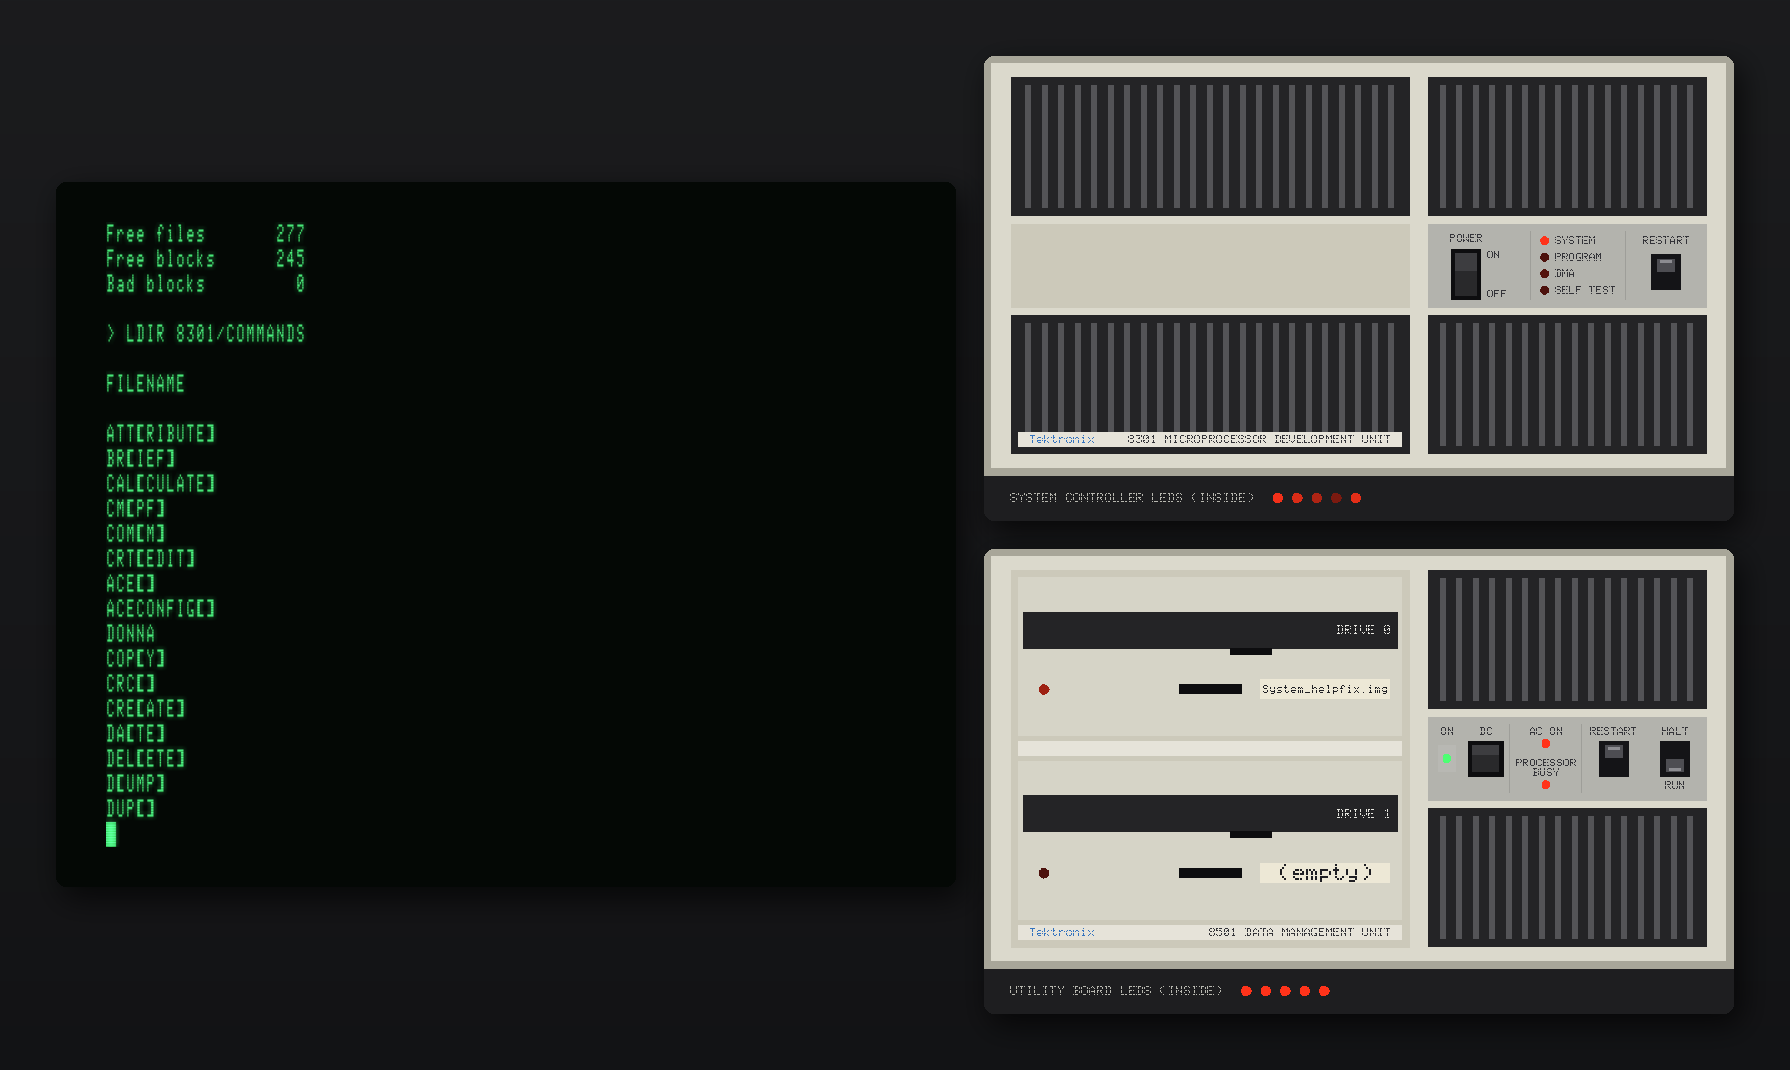
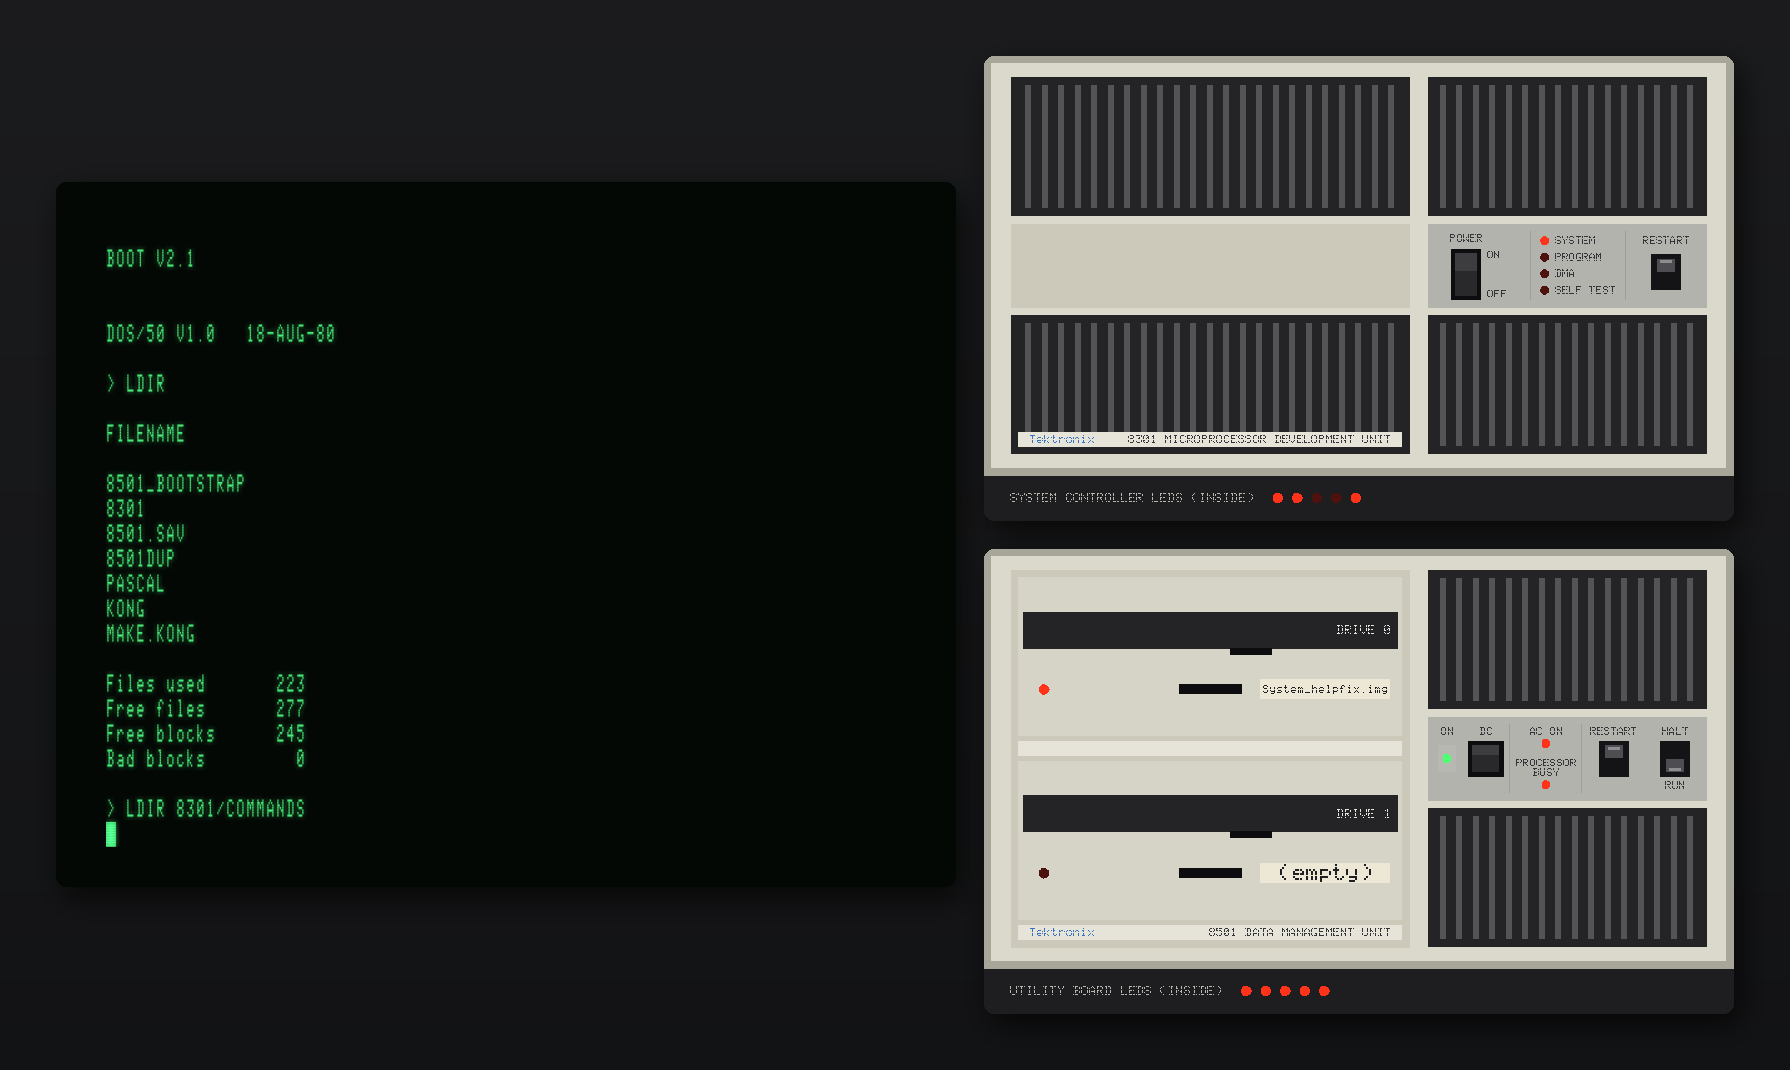
Tutorials with progress screenshots; deterministic GUI captures
- docs/TUTORIALS.md shows each step: power-up self-test, the prompt and LDIR
  in the graphical lab; EDIT, ASM/LINK and the breakpoint session; FORMAT
  probing the blank disc, formatting, copying and done, with drive 1's lamp.
  Rendered by tools/make_tutorial_shots.sh (GUI captures composed by the
  new tools/compose_gui.py, terminal screens by render_screens.py).
- tek8550-gui batch runs (-cycles) are deterministic: every frame is 1/60 s
  of machine time, blink follows machine time, no vsync, and drawing only
  happens when a capture is due. Two runs give byte-identical pictures.
- tek8550_system::disc(N) tracks the image in each drive however it was
  inserted (command line, -mount, monitor, GUI), so the GUI's drive
  captions follow scripted mounts too.
- FORMAT's question comes after ~20 s of probing a blank disc; the
  tutorial says so, and the script answers after it.

diff --git a/emu/src/frontend/sdl/main_gui.cpp b/emu/src/frontend/sdl/main_gui.cpp
@@ -167,7 +167,7 @@ int main(int argc, char **argv)
 	if (!SDL_CreateWindowAndRenderer("Tektronix CT8500 \xe2\x80\x94 8550 MDL", int(LW * (scale > 0 ? scale : 1.25)), int(LH * (scale > 0 ? scale : 1.25)),
 		SDL_WINDOW_RESIZABLE | SDL_WINDOW_HIGH_PIXEL_DENSITY, &win, &ren)) { fprintf(stderr, "SDL: %s\n", SDL_GetError()); return 1; }
 	SDL_SetRenderLogicalPresentation(ren, LW, LH, SDL_LOGICAL_PRESENTATION_LETTERBOX);
-	SDL_SetRenderVSync(ren, 1);
+	SDL_SetRenderVSync(ren, opt.max_cycles >= 0 ? 0 : 1);       // batch runs never wait for the display
 	SDL_Texture *tex = SDL_CreateTexture(ren, SDL_PIXELFORMAT_ARGB8888, SDL_TEXTUREACCESS_STREAMING, TW, TH);
 	terminal_view view; view.crt = style != "sharp";
 	SDL_SetTextureScaleMode(tex, view.crt ? SDL_SCALEMODE_LINEAR : SDL_SCALEMODE_NEAREST);
@@ -176,8 +176,6 @@ int main(int argc, char **argv)
 
 	// front panels, to the right of the terminal
 	std::vector<panel> panels;
-	std::string disc[4];
-	for (int d = 0; d < 4; d++) disc[d] = opt.disks[d].empty() ? "" : base_name(opt.disks[d]);
 	if (panels_on) {
 		int tx = 0, ty = 0, tw = 0, th = 0;
 		SDL_GetWindowPosition(win, &tx, &ty); SDL_GetWindowSize(win, &tw, &th);
@@ -237,7 +235,8 @@ int main(int argc, char **argv)
 	std::deque<uint8_t> paste;                   // pasted text, typed at the line rate
 	double next_paste = 0;
 	const double char_time = 10.0 / 9600;        // the terminal port's 9600 baud
-	bool turbo = opt.max_cycles >= 0, fullscreen = false, quit = false, redraw = true, blink_on = true;
+	const bool batch = opt.max_cycles >= 0;
+	bool turbo = batch, fullscreen = false, quit = false, redraw = true, blink_on = true;
 	Uint64 wall0 = SDL_GetTicksNS(); double emu0 = sys.now();
 	auto resync = [&]() { wall0 = SDL_GetTicksNS(); emu0 = sys.now(); };
 	auto update_title = [&]() {
@@ -263,8 +262,7 @@ int main(int argc, char **argv)
 				p->pressed = it;
 				if (it->input.compare(0, 5, "drive") == 0 && it->input.find(":eject") != std::string::npos) {
 					int d = it->input[5] - '0'; std::string er;
-					if (!disc[d].empty() && !sys.eject(d, er)) fprintf(stderr, "[drive %d: %s]\n", d, er.c_str());
-					disc[d].clear();
+					if (!sys.disc(d).empty() && !sys.eject(d, er)) fprintf(stderr, "[drive %d: %s]\n", d, er.c_str());
 				} else sys.input(it->input, 1);
 				break;
 			}
@@ -276,8 +274,7 @@ int main(int argc, char **argv)
 				const lay::item *it = lay::hit(*p->v, e.drop.x, e.drop.y, [](const lay::item &i) { return i.drive >= 0; });
 				if (!it) break;
 				std::string er;
-				if (sys.mount(it->drive, path, er)) disc[it->drive] = base_name(path);
-				else fprintf(stderr, "[drive %d: %s]\n", it->drive, er.c_str());
+				if (!sys.mount(it->drive, path, er)) fprintf(stderr, "[drive %d: %s]\n", it->drive, er.c_str());
 				break;
 			}
 			case SDL_EVENT_TEXT_INPUT:
@@ -349,11 +346,13 @@ int main(int argc, char **argv)
 		}
 
 		// run the machine: to real time, or flat out for ~14 ms per frame in turbo
+		// batch runs (-cycles) are deterministic: every frame is 1/60 s of machine time, so
+		// captures (-shot) come out the same on every run
 		Uint64 frame0 = SDL_GetTicksNS();
-		double target = emu0 + double(frame0 - wall0) / 1e9;
+		double target = batch ? sys.now() + 1.0 / 60 : emu0 + double(frame0 - wall0) / 1e9;
 		while (!sys.finished()) {
 			Uint64 now = SDL_GetTicksNS();
-			if (turbo ? now - frame0 > 14'000'000 : (sys.now() >= target || now - frame0 > 30'000'000)) break;
+			if (batch ? sys.now() >= target : turbo ? now - frame0 > 14'000'000 : (sys.now() >= target || now - frame0 > 30'000'000)) break;
 			if (!paste.empty() && sys.now() >= next_paste) {
 				uint8_t c = paste.front(); paste.pop_front();
 				ct.type(c);
@@ -373,8 +372,16 @@ int main(int argc, char **argv)
 		}
 		if (turbo || sys.now() < target - 0.25) resync();      // never try to catch up a backlog
 		if (ct.take_bell()) bell.ring();
+		// batch runs draw only for a capture (and ~30 times a second of wall time if a display shows them)
+		if (batch) {
+			static Uint64 last_draw = 0;
+			bool shot_due = false;
+			for (auto &sh : shots) if (!sh.file.empty() && sys.now() >= sh.at) shot_due = true;
+			if (!shot_due && SDL_GetTicksNS() - last_draw < 33'000'000) continue;
+			last_draw = SDL_GetTicksNS();
+		}
 
-		bool b = (SDL_GetTicksNS() / 500'000'000) % 2 == 0;    // blinking attribute, 1 Hz
+		bool b = batch ? int(sys.now() * 2) % 2 == 0 : (SDL_GetTicksNS() / 500'000'000) % 2 == 0;   // blinking attribute, 1 Hz
 		if (b != blink_on) { blink_on = b; redraw = true; }
 		if (sys.terminal_dirty) { sys.terminal_dirty = false; redraw = true; }
 		if (redraw) {
@@ -392,7 +399,7 @@ int main(int argc, char **argv)
 			for (panel &p : panels) if (p.pressed == &it) return 1.f;
 			return 0.f;
 		};
-		auto caption = [&](const lay::item &it) -> std::string { return it.drive >= 0 ? (disc[it.drive].empty() ? "(empty)" : disc[it.drive]) : ""; };
+		auto caption = [&](const lay::item &it) -> std::string { return it.drive >= 0 ? (sys.disc(it.drive).empty() ? "(empty)" : base_name(sys.disc(it.drive))) : ""; };
 		for (panel &p : panels) {
 			if (!p.shown || !p.ren) continue;
 			SDL_SetRenderDrawColor(p.ren, 30, 30, 32, 255);

diff --git a/tools/compose_gui.py b/tools/compose_gui.py
@@ -1,0 +1,38 @@
+#!/usr/bin/env python3
+"""Compose tek8550-gui window captures (-shot X.bmp writes X.bmp, X_8301.bmp, X_8501.bmp)
+into one picture on a dark backdrop with soft shadows.
+usage: compose_gui.py SHOT.bmp OUT.png [--width W]   (W: scale the result to this width)"""
+import sys, os
+from PIL import Image, ImageFilter, ImageDraw
+
+def compose(shot, out, width=None):
+    base = os.path.splitext(shot)[0]
+    term = Image.open(shot).convert('RGB')
+    panels = [Image.open(base + '_' + t + '.bmp').convert('RGB') for t in ('8301', '8501') if os.path.exists(base + '_' + t + '.bmp')]
+    pad, gap = 56, 28
+    stack_h = sum(p.height for p in panels) + gap * max(len(panels) - 1, 0)
+    H = max(term.height, stack_h) + 2 * pad
+    W = pad + term.width + (gap + max(p.width for p in panels) if panels else 0) + pad
+    bg = Image.new('RGB', (W, H), (22, 23, 26))
+    g = Image.new('L', (1, H)); g.putdata([int(36 - 24 * y / H) for y in range(H)])
+    bg.paste(Image.merge('RGB', (g, g, g)).resize((W, H)), (0, 0), Image.new('L', (W, H), 90))
+    def place(img, x, y):
+        sh = Image.new('L', (W, H), 0)
+        ImageDraw.Draw(sh).rounded_rectangle([x + 6, y + 10, x + img.width + 6, y + img.height + 10], 12, fill=170)
+        bg.paste((0, 0, 0), (0, 0), sh.filter(ImageFilter.GaussianBlur(14)))
+        m = Image.new('L', img.size, 0); ImageDraw.Draw(m).rounded_rectangle([0, 0, img.width - 1, img.height - 1], 10, fill=255)
+        bg.paste(img, (x, y), m)
+    place(term, pad, pad + (H - 2 * pad - term.height) // 2)
+    y = pad + (H - 2 * pad - stack_h) // 2
+    for p in panels:
+        place(p, pad + term.width + gap, y); y += p.height + gap
+    if width and bg.width > width:
+        bg = bg.resize((width, int(bg.height * width / bg.width)), Image.LANCZOS)
+    bg.save(out, optimize=True)
+    print(out, bg.size)
+
+if __name__ == '__main__':
+    a = sys.argv[1:]
+    w = None
+    if '--width' in a: i = a.index('--width'); w = int(a[i + 1]); del a[i:i + 2]
+    compose(a[0], a[1], w)

diff --git a/emu/src/system/tek8550.cpp b/emu/src/system/tek8550.cpp
@@ -56,6 +56,7 @@ bool tek8550_system::start(bool feed_terminal, std::string &err)
 		bool wb = opt.writeback && opt.disks[d].find("sources/") == std::string::npos;
 		if (opt.writeback && !wb) fprintf(stderr, "[drive %d: %s is an original; mounted without write-back]\n", d, opt.disks[d].c_str());
 		if (!dmu->mount(d, opt.disks[d], err, wb)) return false;
+		m_disc[d] = opt.disks[d];
 	}
 
 	logf = opt.logfile.empty() ? nullptr : fopen(opt.logfile.c_str(), "wb");
@@ -236,6 +237,7 @@ bool tek8550_system::mount(int drive, const std::string &path, std::string &err)
 	bool wb = opt.writeback && path.find("sources/") == std::string::npos;
 	if (dmu->mounted(drive) && !dmu->eject(drive, err)) return false;
 	if (!dmu->mount(drive, path, err, wb, true)) return false;
+	m_disc[drive & 3] = path;
 	out.set("drive" + std::to_string(drive) + ":disc", 1);
 	return true;
 }
@@ -243,6 +245,7 @@ bool tek8550_system::mount(int drive, const std::string &path, std::string &err)
 bool tek8550_system::eject(int drive, std::string &err)
 {
 	bool ok = dmu->eject(drive, err);
+	m_disc[drive & 3].clear();
 	out.set("drive" + std::to_string(drive) + ":disc", 0);
 	return ok;
 }

diff --git a/emu/src/system/tek8550.h b/emu/src/system/tek8550.h
@@ -52,6 +52,8 @@ public:
 	// discs: insert at run time (the drive reports a disc change) / write back and remove
 	bool mount(int drive, const std::string &path, std::string &err);
 	bool eject(int drive, std::string &err);
+	// the image in a drive ("" = none), however it got there: command line, -mount, monitor, GUI
+	const std::string &disc(int drive) const { return m_disc[drive & 3]; }
 
 	void show(FILE *f);                            // registers of both CPUs (monitor)
 	tek8301 &mdu_unit() { return *mdu; }
@@ -70,6 +72,7 @@ private:
 	u64 m_ticks = 0;
 	int m_out_8301 = -1, m_out_8301_ram = -1, m_out_8501 = -1, m_out_drives = -1, m_out_panel = -1;
 	u64 m_dma_seen = 0;
+	std::string m_disc[4];
 
 	void scripted_events();
 	void update_outputs();

diff --git a/docs/TUTORIALS.md b/docs/TUTORIALS.md
@@ -24,7 +24,18 @@ What you are watching:
 2. **~3 s:** the 8501 boots from drive 0. Its red **drive lamp** flickers as the disc controller's own Z80 seeks and reads, at the real drive's speed.
 3. **~27 s:** `DOS/50 V1.0 18-AUG-80` and the `>` prompt.
 
-Click into the terminal and type `LDIR` + Return, then `HELP`. Things to try:
+![Power-up: the 8301's SELF TEST lamp is lit and drive 0 is reading](screenshots/tutorials/t1_selftest.png)
+*3 seconds in: the screen is still blank while both units test themselves. The 8301's SELF TEST lamp is lit, the inside LEDs show test codes, and drive 0's lamp glows as the 8501 starts booting.*
+
+![The DOS/50 prompt](screenshots/tutorials/t1_prompt.png)
+*~29 s: DOS/50 is up. SELF TEST has gone out, and the 8501 shows ON, AC ON and PROCESSOR BUSY.*
+
+Click into the terminal and type `LDIR` + Return, then `HELP`.
+
+![LDIR on the system disc](screenshots/tutorials/t1_ldir.png)
+*`LDIR` lists the root of the system disc in drive 0.*
+
+Things to try:
 
 | Do | To |
 |---|---|
@@ -53,12 +64,18 @@ DONE    JR      DONE
                          (an empty line ends input)
 *FILE
 ```
+![The program typed into EDIT and saved](screenshots/tutorials/t2_edit.png)
+*EDIT's `INPUT` mode takes the lines; an empty line ends it, and `FILE` saves.*
+
 Assemble, link and load it into the emulator board's memory. ASM and LINK take tens of seconds each, as they did on the real lab (**Cmd-T** speeds them up):
 ```
 > ASM T.OBJ T.LST T.ASM
 > LINK T.LOAD T.LNKL T.OBJ
 > LOAD T.LOAD
 ```
+![ASM and LINK finished](screenshots/tutorials/t2_asm_link.png)
+*No assembly errors; the linker resolves everything and puts the transfer address at 0100.*
+
 Debug it:
 ```
 > BK 102                 breakpoint on LOOP
@@ -69,6 +86,8 @@ Debug it:
 > CLBP
 > GO                     runs to the end; Esc Esc stops it
 ```
+![Breakpoints and registers](screenshots/tutorials/t2_debug.png)
+*Each `GO` stops at the breakpoint on `LOOP`. `DS` shows A counting up and B (the DJNZ counter) counting down.*
 Watch the 8301 panel while it runs: **PROGRAM** lights while the emulator processor runs your code, and **SYSTEM** lights while the 2650 has control.
 
 ACE, the full-screen editor, the assembler's syntax quirks and the other debugging commands are in [OPERATION.md §3–5](OPERATION.md#3-write-a-program).
@@ -83,15 +102,31 @@ The 8501's disc controller runs its original firmware, so a blank disc really ha
 - **Graphical:** drop `blank.img` onto **DRIVE 1** on the 8501 panel. Clicking the drive later ejects it.
 - **Headless:** add `-mount 30 1=../disks/blank.img` to the command line, or use the monitor (**Ctrl-]**, then `m 1 ../disks/blank.img`).
 
-Then, following Tektronix's own procedure:
+Then, following Tektronix's own procedure, type `FORMAT /DEV/FLX1`. FORMAT first probes the disc, which takes about 20 seconds on a blank one: the controller tries both densities and finds no data. Drive 1's lamp shows the work:
+
+![FORMAT probing the blank disc](screenshots/tutorials/t3_probe.png)
+*Drive 1 holds `blank.img` and its lamp is lit while the controller looks for data on the blank disc.*
+
+Then it asks for confirmation (the `Y` you type is not echoed):
 ```
 > FORMAT /DEV/FLX1
 DO YOU REALLY WANT TO FORMAT THIS DISK? Y        about 50 s: two revolutions per track, 154 tracks
+```
+![Formatting](screenshots/tutorials/t3_format.png)
+*Formatting: the controller's Z80 writes every track from index to index, laying down the IBM System 34 format sector by sector.*
+
+Check it, then copy the system disc onto it:
+```
 > VERIFY /DEV/FLX1
             0 BAD BLOCKS                          several minutes: block by block
 > COPY:L:B /DEV/FLX0 /DEV/FLX1
 Output file already exists.  Do you want to override it? Y
 ```
+![Copying the system disc](screenshots/tutorials/t3_copy.png)
+*COPY:L:B copies the whole device, block by block; drive 1's lamp stays lit while it writes.*
+
+![Done](screenshots/tutorials/t3_done.png)
+*Done: the blank disc is now a copy of the system disc.*
 Run with `-rw`, and `blank.img` is now a copy of the system disc. Check it with the sibling tool: `../tekmato/tekmato -open ../disks/blank.img -check -list /`. `FORMAT:S` makes a single-density disc. The disc's sides follow the image: an empty file is a double-sided disc, and a single-sided image (1989 records) gives single-sided media.
 
 ## 4. Scripted, headless runs
@@ -110,7 +145,7 @@ python3 ../tools/render_screens.py --crt ldir.scr ldir.png       # a CT8500-styl
 | `-outputs FILE` | log every front-panel lamp change with its time |
 | `-log`, `-hsilog`, `-dump` | terminal output, the 8301↔8501 link traffic, memory images |
 
-The graphical front end takes the same options. Add `-shot T FILE.bmp` to save its windows, and run it with no display using `SDL_VIDEODRIVER=dummy SDL_RENDER_DRIVER=software`. `tools/make_hero.sh` makes the README picture that way. `tools/make_screenshots.sh` replays a whole edit → assemble → link → run session.
+The graphical front end takes the same options. Add `-shot T FILE.bmp` to save its windows, and run it with no display using `SDL_VIDEODRIVER=dummy SDL_RENDER_DRIVER=software`. `tools/make_hero.sh` makes the README picture that way, and `tools/make_tutorial_shots.sh` makes the pictures in these tutorials. Batch runs of the graphical front end advance a fixed 1/60 s of machine time per frame, so the pictures come out identical on every run. `tools/make_screenshots.sh` replays a whole edit → assemble → link → run session.
 
 ## 5. Build for Windows
 

diff --git a/CLAUDE.md b/CLAUDE.md
@@ -21,7 +21,7 @@ Start with `docs/ARCHITECTURE.md` (how the machine works) and `docs/OPERATION.md
 | `disks/` | working disk images. `System_helpfix.img` = DOS/50 V1.0 with the HELP file repaired |
 | `sources/` | original material (bitsavers manuals with OCR `.txt`, disk images, photos, tekwiki). **Read-only; never modify** |
 | `reference/mame/` | MAME source files the cores and devices were ported from (commit in `SOURCE.txt`) |
-| `tools/` | `make_hero.sh` (README hero image from the GUI), `gen_panels.py` (front-panel artwork), `make_system_helpfix.py` (rebuilds the working System disc), `gen_ct8500_font.py` (font table for the GUI), `imd.py` (IMD reader), `proto_target.py` (reference target system), `host_link.py` (reference host for COMM/HOST) + `test_host_link.sh`, `render_screens.py` + `ct8500_font.py` (screenshots), `make_screenshots.sh` |
+| `tools/` | `make_hero.sh` (README hero image from the GUI), `make_tutorial_shots.sh` (pictures in docs/TUTORIALS.md), `compose_gui.py` (composes GUI window captures), `gen_panels.py` (front-panel artwork), `make_system_helpfix.py` (rebuilds the working System disc), `gen_ct8500_font.py` (font table for the GUI), `imd.py` (IMD reader), `proto_target.py` (reference target system), `host_link.py` (reference host for COMM/HOST) + `test_host_link.sh`, `render_screens.py` + `ct8500_font.py` (screenshots), `make_screenshots.sh` |
 | `docs/` | `TUTORIALS.md` (short recipes), `OPERATION.md` (long tour), `ARCHITECTURE.md`, `DESIGN-gui-and-fdc.md`; `screenshots/` (session, diagnostics, `hero.png`) |
 | `PLAN.md`, `FEASIBILITY.md` | milestones and status log; the original feasibility study |
 | `../tekmato` | sibling tool for DOS/50 disc images (list/extract/write/check); the file-system format is in `../tekmato/FORMAT.md`. Use it to put files on a disc instead of typing them in through EDIT |
